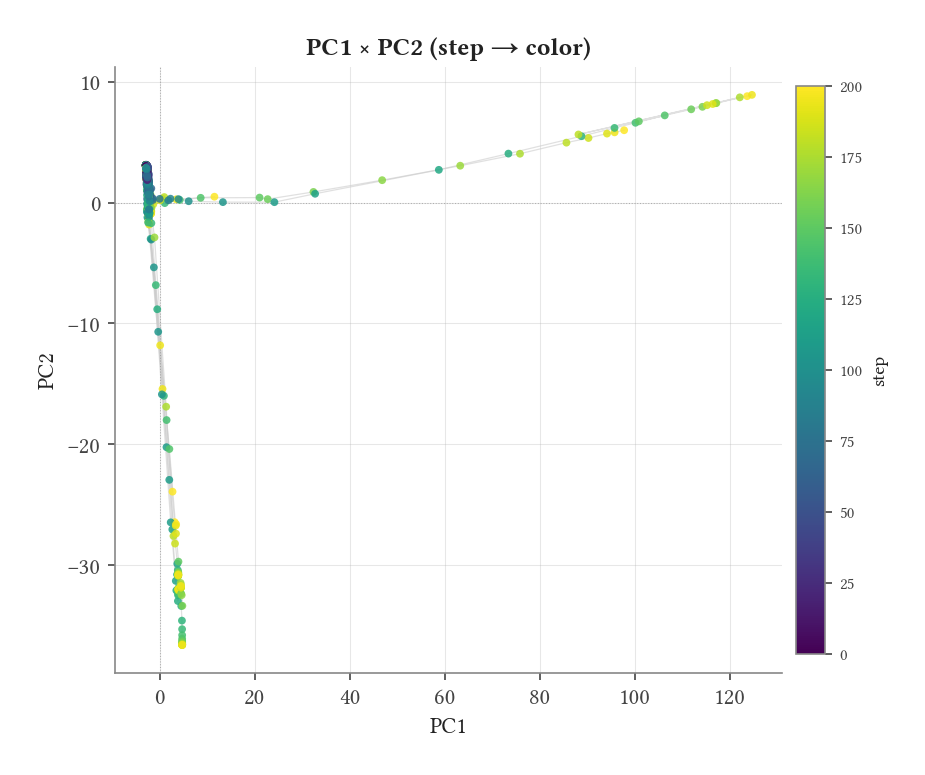
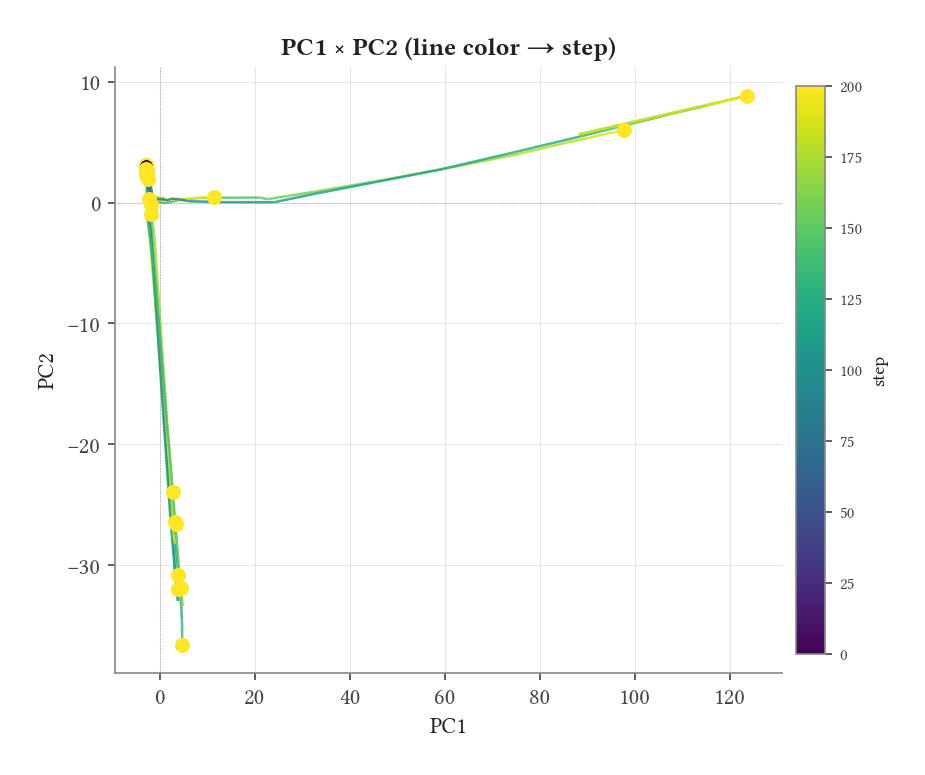
Rainbow trajectories use LineCollection (line-color = step) not scatter
Replaces the scatter-of-colored-points approach with multi-segment
lines colored by step via matplotlib.collections.LineCollection.
Same start/end glyph convention as the rest of the plotting stack
(open circle at trajectory start, filled dot at end), color matches
the colormap at the endpoint's step.

Net effect: trajectory paths are visible as continuous lines instead
of disconnected dots; temporal sweep stays visible via line color.
Much easier to follow individual seeds while still seeing the
ensemble structure.

diff --git a/scripts/figure_chain_pca_rainbow.py b/scripts/figure_chain_pca_rainbow.py
@@ -1,15 +1,15 @@
-"""PC trajectory plots with each point colored by step (rainbow / viridis).
+"""PC trajectory plots with each line segment colored by step (rainbow / viridis).
 
 Companion to figure_chain_pca_by_seed.py and analyze_pca_trajectory.py.
-Those plots show *which* trajectory is which (color = seed or basin).
-This one shows *when* in training each point is, so you can see the
-temporal sweep of the trajectories — useful when trajectories overlap
-in PC space and you can't tell which direction they're going.
+Same start/end glyph convention as those (open circle at start, filled
+dot at end), but the connecting line is colored with a sequential
+colormap by step — temporal sweep is visible without sacrificing the
+trajectory-as-line aesthetic.
 
 Outputs:
-  figure_pc1_vs_pc2_rainbow.png       PC1 × PC2 with step coloring
-  figure_pc1_vs_vanilla_kl_rainbow.png PC1 × log vanilla_kl with step coloring
-  figure_pc2_vs_vanilla_kl_rainbow.png PC2 × log vanilla_kl with step coloring
+  *_pc1_vs_pc2.png             PC1 × PC2 with step-colored lines
+  *_pc1_vs_vanilla_kl.png      PC1 × log vanilla_kl with step-colored lines
+  *_pc2_vs_vanilla_kl.png      PC2 × log vanilla_kl with step-colored lines
 
 Usage:
   python scripts/figure_chain_pca_rainbow.py
@@ -21,6 +21,7 @@ import os
 import matplotlib
 matplotlib.use("Agg")
 import matplotlib.pyplot as plt
+from matplotlib.collections import LineCollection
 import numpy as np
 import torch
 from sklearn.decomposition import PCA
@@ -31,19 +32,54 @@ from csp_div.plot_style import EDGE_COLOR, panel_title, style_pc_axis
 ROOT = os.path.dirname(os.path.dirname(os.path.abspath(__file__)))
 
 
+def _segments_from_xy(xs, ys):
+    """Build a (N-1, 2, 2) segment array for LineCollection from xs, ys."""
+    pts = np.array([xs, ys]).T.reshape(-1, 1, 2)
+    return np.concatenate([pts[:-1], pts[1:]], axis=1)
+
+
+def _draw_step_colored_lines(ax, by_seed, x_field_fn, y_field_fn,
+                              cmap, norm, lw=1.2, alpha=0.85,
+                              start_size=22, end_size=36):
+    """For each trajectory, draw a multi-segment line colored by step.
+    Add open circle at start, filled dot at end (color = first/last step's cmap)."""
+    for seed, traj in by_seed.items():
+        steps = [r["step"] for r in traj]
+        xs_ys = [(x_field_fn(r), y_field_fn(r), s)
+                 for r, s in zip(traj, steps)]
+        xs_ys = [(x, y, s) for (x, y, s) in xs_ys if x is not None and y is not None]
+        if len(xs_ys) < 2:
+            continue
+        xs = [v[0] for v in xs_ys]
+        ys = [v[1] for v in xs_ys]
+        seg_steps = [v[2] for v in xs_ys]
+
+        segments = _segments_from_xy(xs, ys)
+        # Use the average of the two endpoints' steps for each segment's color
+        seg_colors = [(seg_steps[i] + seg_steps[i + 1]) / 2.0
+                      for i in range(len(seg_steps) - 1)]
+        lc = LineCollection(segments, cmap=cmap, norm=norm,
+                            array=np.asarray(seg_colors),
+                            linewidth=lw, alpha=alpha, zorder=2)
+        ax.add_collection(lc)
+        # Endpoints (open at start, filled at end), colored to match the line
+        c_start = cmap(norm(seg_steps[0]))
+        c_end = cmap(norm(seg_steps[-1]))
+        ax.scatter([xs[0]], [ys[0]], s=start_size,
+                   facecolor="white", edgecolor=c_start,
+                   linewidth=1.2, zorder=4)
+        ax.scatter([xs[-1]], [ys[-1]], s=end_size,
+                   facecolor=c_end, edgecolor=c_end,
+                   linewidth=1.2, zorder=4)
+
+
 def main():
     parser = argparse.ArgumentParser()
     parser.add_argument("--shifts-path",
                         default="results/random_walk/shifts.pt")
-    parser.add_argument("--out-prefix", default=None,
-                        help="Output prefix (e.g. results/random_walk/figure_chain_rainbow). "
-                             "Three files written: _pc1_vs_pc2.png, _pc1_vs_vanilla_kl.png, "
-                             "_pc2_vs_vanilla_kl.png.")
-    parser.add_argument("--normalize", action="store_true",
-                        help="L2-normalize each shift before PCA (direction-only PCs).")
-    parser.add_argument("--cmap", default="viridis",
-                        help="Sequential colormap for step coloring. "
-                             "Try 'viridis', 'plasma', 'inferno', 'turbo'.")
+    parser.add_argument("--out-prefix", default=None)
+    parser.add_argument("--normalize", action="store_true")
+    parser.add_argument("--cmap", default="viridis")
     args = parser.parse_args()
 
     shifts_path = args.shifts_path if os.path.isabs(args.shifts_path) \
@@ -59,7 +95,6 @@ def main():
     rows = d["rows"]
     print(f"Loaded {len(rows)} rows")
 
-    # Group by seed, sort by step
     by_seed = {}
     for r in rows:
         seed = int(r["group"].split("/")[-1].replace("seed_", "").split("_")[0])
@@ -67,7 +102,6 @@ def main():
     for s in by_seed:
         by_seed[s].sort(key=lambda r: r["step"])
 
-    # PCA
     X = np.stack([r["shift"].numpy() for r in rows])
     if args.normalize:
         norms = np.linalg.norm(X, axis=1, keepdims=True)
@@ -77,40 +111,23 @@ def main():
     pca = PCA(n_components=4)
     Y = pca.fit_transform(X_for_pca)
     print(f"Variance explained: {pca.explained_variance_ratio_}")
-
     pc_for_row = {id(r): Y[i] for i, r in enumerate(rows)}
 
-    # Step range for color normalization (shared across all panels)
     all_steps = [r["step"] for r in rows]
-    step_min, step_max = min(all_steps), max(all_steps)
     cmap = plt.get_cmap(args.cmap)
-    norm = plt.Normalize(vmin=step_min, vmax=step_max)
-
-    def _plot_xy(ax, x_field_fn, y_field_fn):
-        # Thin gray connecting lines first (so points sit on top)
-        for seed, traj in by_seed.items():
-            xs = [x_field_fn(r) for r in traj]
-            ys = [y_field_fn(r) for r in traj]
-            xs_ys = [(x, y) for (x, y) in zip(xs, ys) if x is not None and y is not None]
-            if not xs_ys:
-                continue
-            xs = [v[0] for v in xs_ys]
-            ys = [v[1] for v in xs_ys]
-            ax.plot(xs, ys, color="#cccccc", linewidth=0.6, alpha=0.6, zorder=2)
-        # Scatter points colored by step
-        for r in rows:
-            x = x_field_fn(r)
-            y = y_field_fn(r)
-            if x is None or y is None:
-                continue
-            ax.scatter([x], [y], s=14, color=cmap(norm(r["step"])),
-                       edgecolor="none", alpha=0.85, zorder=3)
+    norm = plt.Normalize(vmin=min(all_steps), vmax=max(all_steps))
 
     # --- PC1 × PC2 ---
     fig, ax = plt.subplots(figsize=(6, 5))
-    _plot_xy(ax, lambda r: pc_for_row[id(r)][0], lambda r: pc_for_row[id(r)][1])
+    _draw_step_colored_lines(
+        ax, by_seed,
+        lambda r: pc_for_row[id(r)][0],
+        lambda r: pc_for_row[id(r)][1],
+        cmap, norm,
+    )
+    ax.autoscale()
     style_pc_axis(ax, x_label="PC1", y_label="PC2")
-    panel_title(ax, "PC1 × PC2 (step → color)")
+    panel_title(ax, "PC1 × PC2 (line color → step)")
     sm = plt.cm.ScalarMappable(cmap=cmap, norm=norm)
     cbar = plt.colorbar(sm, ax=ax, fraction=0.04, pad=0.02)
     cbar.set_label("step", fontsize=9)
@@ -121,12 +138,16 @@ def main():
     plt.close(fig)
     print(f"Saved: {out}")
 
-    # --- PC1 × log vanilla_kl ---
+    # --- PC{1,2} × log vanilla_kl ---
     for pc_idx, label in [(0, "PC1"), (1, "PC2")]:
         fig, ax = plt.subplots(figsize=(6, 4))
-        _plot_xy(ax,
-                 lambda r: r.get("vanilla_kl"),
-                 lambda r, idx=pc_idx: pc_for_row[id(r)][idx])
+        _draw_step_colored_lines(
+            ax, by_seed,
+            lambda r: r.get("vanilla_kl"),
+            lambda r, idx=pc_idx: pc_for_row[id(r)][idx],
+            cmap, norm,
+        )
+        ax.autoscale()
         ax.set_xscale("log")
         ax.set_xlabel("KL(student || vanilla)  [log]")
         ax.set_ylabel(label)
@@ -138,7 +159,7 @@ def main():
         ax.spines["right"].set_visible(False)
         ax.spines["left"].set_color(EDGE_COLOR)
         ax.spines["bottom"].set_color(EDGE_COLOR)
-        panel_title(ax, f"{label} × vanilla_kl (step → color)")
+        panel_title(ax, f"{label} × vanilla_kl (line color → step)")
         sm = plt.cm.ScalarMappable(cmap=cmap, norm=norm)
         cbar = plt.colorbar(sm, ax=ax, fraction=0.04, pad=0.02)
         cbar.set_label("step", fontsize=9)
